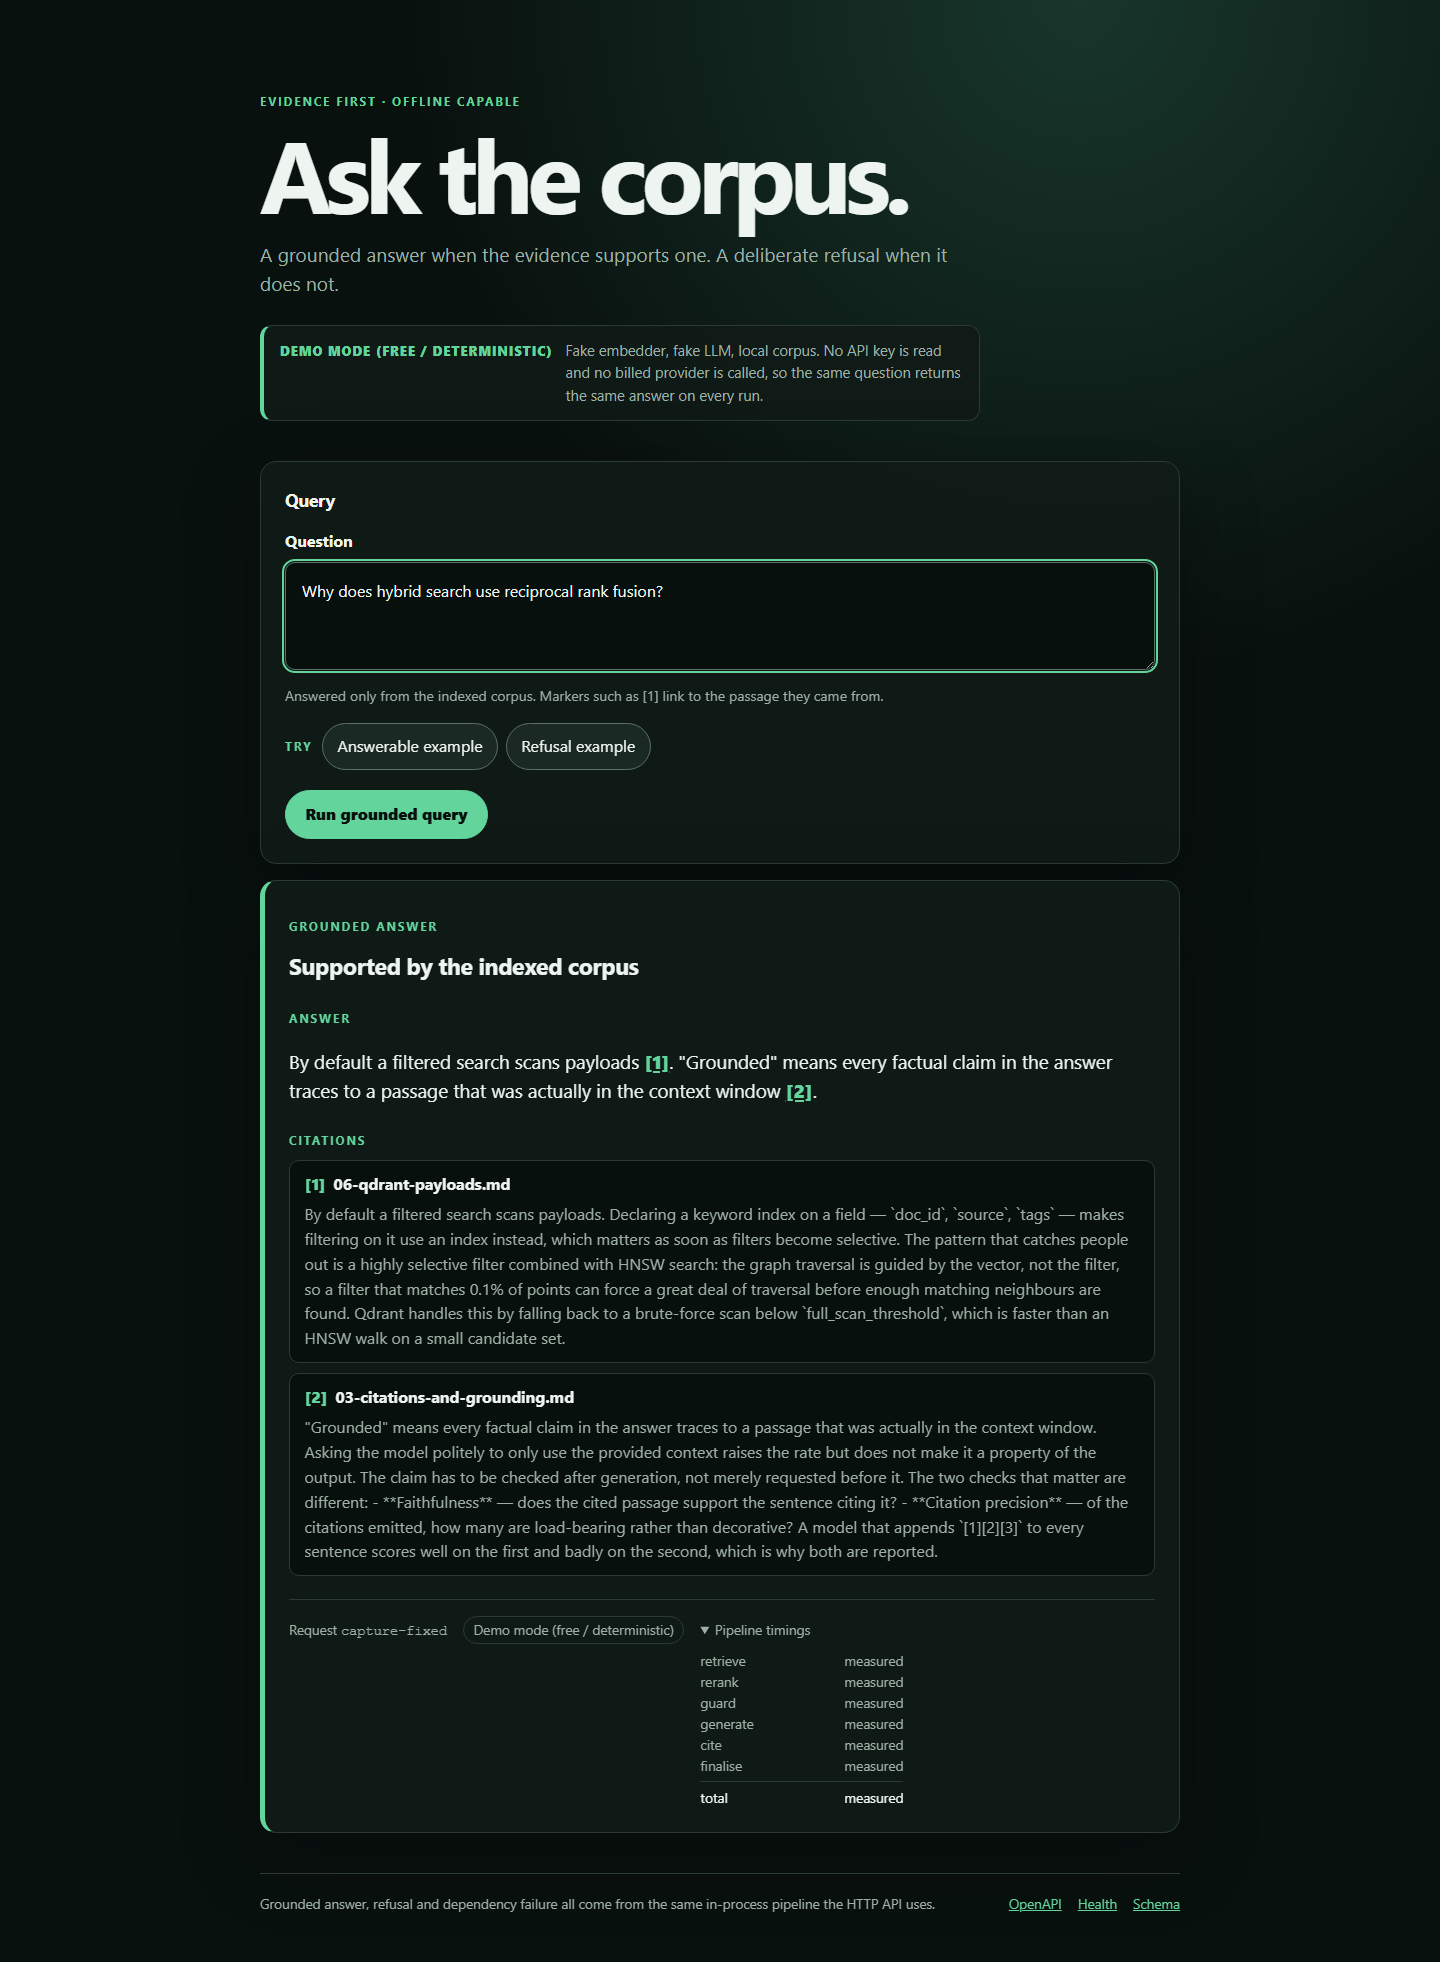
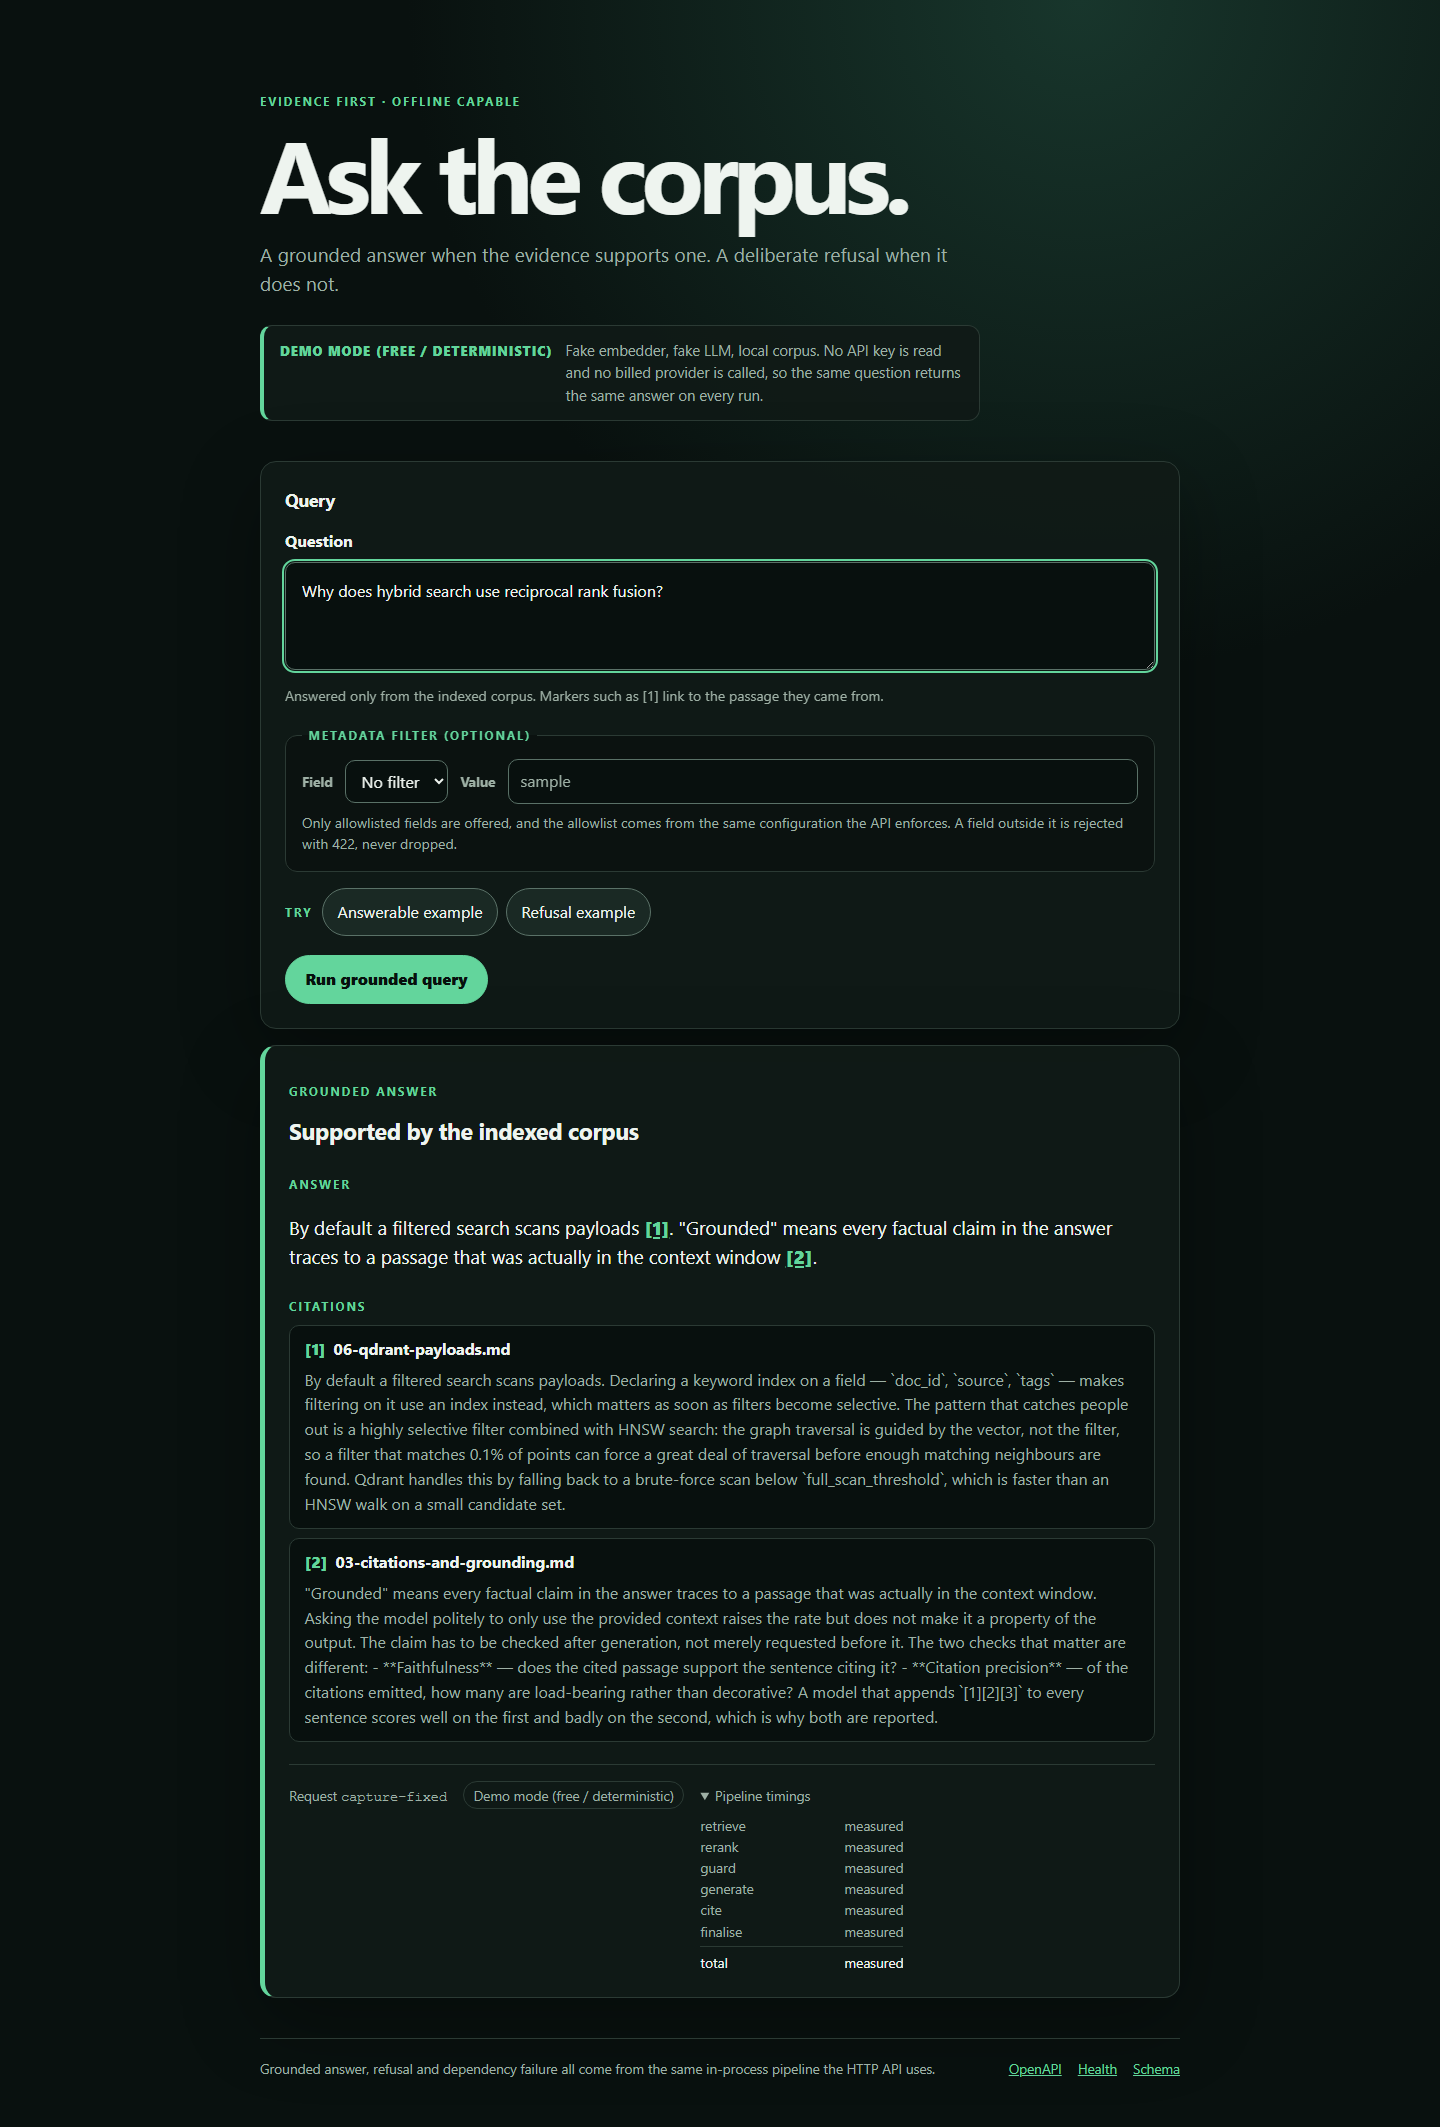
docs(portfolio): repin P1 to the filter-UI head and gate hosted claims on curled fixtures
Production RAG moved to main 1cd8e4b, which merges the allowlisted metadata
filter control onto the query UI. The card cited 62cc15f, so the site was one
merge behind the thing that makes the system interesting to a reviewer.

- Repin P1 to 1cd8e4b and add the demo walkthrough of the filter control.
- Refresh the vendored grounded capture: ui-grounded.png changed between
  129a46d and 1cd8e4b, so the pinned copy was stale (height 1962 -> 2127).
- Vendor ui-filtered.png at 1cd8e4b and render it under the flagship, because
  a filter that cannot offer what the API would reject is worth showing, not
  only asserting.
- Repin the P2, P4, and P5 capture source links to the main each card claims.
  The blobs are byte-identical at both commits; the older SHAs merely made a
  reader open a commit the card was not talking about.
- Add content/verified-urls.json: every hosted URL with the status a real
  request observed, plus an absent list recording that pax-production-rag and
  pax-multi-agent both return 404 today. P1 and P3 stay clone-and-run.
- Four new tests: a hosted claim needs a fixture that observed 200, the
  fixture cannot record a status it did not observe, every capture is pinned
  to a commit rather than a branch, and a system that claims a main must pin
  evidence to it.

GET /v1/platform/status is recorded as 401, which is what an anonymous request
receives. The authenticated 200 is described in prose, never asserted as the
anonymous status.

diff --git a/app/page.tsx b/app/page.tsx
@@ -257,6 +257,57 @@ export default function Home() {
               </figure>
             </div>
 
+            {flagship.secondaryCapture ? (
+              <div className="flagship-detail">
+                <div className="flagship-detail-copy">
+                  <p className="section-kicker">THE CONTROL THAT CANNOT OVER-PROMISE</p>
+                  <h3>A filter the API would refuse is a filter the UI never offers.</h3>
+                  <p>
+                    The metadata filter reads its field list from the running deployment&apos;s
+                    allowlist, so the control cannot propose a narrowing the API would reject. A
+                    field posted by hand anyway gets the same typed 422 the API answers with, and
+                    the result footer names the narrowing that produced the citations.
+                  </p>
+                  <div className="text-links">
+                    <ExternalLink href="https://github.com/pabloalvarez99/production-rag/blob/main/docs/adr/0011-metadata-filters.md">
+                      ADR 0011 — allowlist-only, fail closed
+                    </ExternalLink>
+                    <ExternalLink href="https://github.com/pabloalvarez99/production-rag/blob/1cd8e4b/docs/demo.md">
+                      Walk the filter in the demo script
+                    </ExternalLink>
+                  </div>
+                </div>
+
+                <figure className="product-frame">
+                  <div className="product-frame-bar">
+                    <div className="window-dots" aria-hidden="true">
+                      <i />
+                      <i />
+                      <i />
+                    </div>
+                    <span>production-rag / metadata filter</span>
+                    <span className="frame-secure">tags = hybrid</span>
+                  </div>
+                  <div className="product-screen">
+                    <Image
+                      alt={flagship.secondaryCapture.alt}
+                      height={flagship.secondaryCapture.height}
+                      loading="lazy"
+                      sizes="(max-width: 900px) 100vw, 50vw"
+                      src={flagship.secondaryCapture.src}
+                      width={flagship.secondaryCapture.width}
+                    />
+                  </div>
+                  <figcaption>
+                    {flagship.secondaryCapture.caption}{" "}
+                    <ExternalLink href={flagship.secondaryCapture.sourceUrl}>
+                      Source file
+                    </ExternalLink>
+                  </figcaption>
+                </figure>
+              </div>
+            ) : null}
+
             <div className="roadmap-heading">
               <div>
                 <p className="section-kicker">THE FIVE-SYSTEM LADDER</p>

diff --git a/app/globals.css b/app/globals.css
@@ -674,6 +674,31 @@ p {
   padding-top: 18px;
 }
 
+.flagship-detail {
+  align-items: center;
+  border-top: 1px solid var(--line);
+  display: grid;
+  gap: 72px;
+  grid-template-columns: minmax(0, 1fr) minmax(0, 1fr);
+  margin-top: 84px;
+  padding-top: 72px;
+}
+
+.flagship-detail-copy h3 {
+  font-size: clamp(1.45rem, 2.3vw, 2rem);
+  line-height: 1.16;
+  margin: 14px 0 18px;
+}
+
+.flagship-detail-copy > p {
+  color: var(--muted);
+  max-width: 52ch;
+}
+
+.flagship-detail-copy .text-links {
+  margin-top: 26px;
+}
+
 .project-title-row {
   align-items: start;
   border-bottom: 1px solid var(--line);
@@ -1629,11 +1654,19 @@ p {
     padding-top: 20px;
   }
 
-  .flagship-grid {
+  .flagship-grid,
+  .flagship-detail {
     grid-template-columns: 1fr;
   }
 
-  .flagship-copy {
+  .flagship-detail {
+    gap: 40px;
+    margin-top: 56px;
+    padding-top: 48px;
+  }
+
+  .flagship-copy,
+  .flagship-detail-copy {
     max-width: 760px;
   }
 

diff --git a/docs/content-provenance.md b/docs/content-provenance.md
@@ -8,7 +8,7 @@ site. Update this record whenever a public status changes.
 
 | Surface | Public evidence |
 |---|---|
-| Production RAG | Release `v0.1.0` at `678c554`; `main` `62cc15f` with green CI; metadata filters merged with ADR 0011; `docs/DEMO-DAY.md`, demo GIF, and social preview committed |
+| Production RAG | Release `v0.1.0` at `678c554`; `main` `1cd8e4b` with green CI; the allowlisted metadata filter control merged onto the query UI (ADR 0011, `docs/demo.md`); `docs/DEMO-DAY.md`, demo GIF, and social preview committed |
 | Agentic Research | Release `v0.1.0` at `18c1ff9`; `main` `8bde9c9` with green CI; API/CLI/UI, optional P1 HTTP, notes tool, 17-case eval contract, three committed UI captures |
 | Multi-Agent Orchestration | Release `v0.1.0` at `e2687ca`; `main` `78b3910` with green CI; done, budget, and trace captures committed |
 | RepoMind | Release `v0.1.0` at `327a949`; `main` `0f91b7c` with green CI; mini-hit, mini-refuse, and dogfood-hit captures committed |
@@ -37,7 +37,18 @@ here:
 | <https://pax-repomind.vercel.app> | `GET /health` returned `200`; `POST /v1/code/ask` answered `create_app` with `app/main.py` lines 6-9 | Indexes the committed `mini` and `production_rag` fixtures only; it cannot answer about an arbitrary repository |
 
 The proof strip counts three hosted demos, not five hosted systems, and P1 and P3 remain
-clone-and-run.
+clone-and-run. `pax-production-rag.vercel.app` and `pax-multi-agent.vercel.app` were both requested
+on 2026-08-14 and both returned `404`; they are recorded in the `absent` list of
+`content/verified-urls.json` so that a future refresh has to observe a `200` before either system
+can be published as hosted.
+
+`content/verified-urls.json` is the machine-checkable half of this document: every hosted URL the
+site publishes must appear there with the status a real request observed, and `npm test` fails if
+`portfolio.json` claims a host the fixture never reached. The file records `401` for
+`GET /v1/platform/status` because that is what an anonymous request receives — the authenticated
+`200` is described in prose here and on the card, never asserted as the anonymous status.
+
+`production-rag.vercel.app` belongs to an unrelated product and is never cited by this site.
 
 AI Platform is the only system whose free path does not exercise the others. Its gateway starts with
 every upstream URL empty, so P1–P4 report `unconfigured` rather than running for the visitor, and its
@@ -50,11 +61,22 @@ source file on GitHub.
 
 | Site file | Source of record |
 |---|---|
-| `production-rag-grounded.png` | `production-rag/docs/assets/ui-grounded.png` at `129a46d` |
-| `agentic-research-run.png` | `agentic-rag-research/docs/assets/ui-done.png` at `57ce423` |
+| `production-rag-grounded.png` | `production-rag/docs/assets/ui-grounded.png` at `1cd8e4b` |
+| `production-rag-filtered.png` | `production-rag/docs/assets/ui-filtered.png` at `1cd8e4b` |
+| `agentic-research-run.png` | `agentic-rag-research/docs/assets/ui-done.png` at `8bde9c9` |
 | `multi-agent-trace.png` | `multi-agent-orchestration/docs/assets/ui-trace.png` at `78b3910` |
-| `repomind-dogfood-hit.png` | `repomind/docs/assets/ui-dogfood-hit.png` at `a9b0acb` |
-| `ai-platform-status.png` | `ai-platform/docs/assets/ui-status-unconfigured.png` at `4318531` |
+| `repomind-dogfood-hit.png` | `repomind/docs/assets/ui-dogfood-hit.png` at `0f91b7c` |
+| `ai-platform-status.png` | `ai-platform/docs/assets/ui-status-unconfigured.png` at `eba1e22` |
+
+Every vendored file was re-fetched from `raw.githubusercontent.com` at the SHA in this table and
+its Git blob hash compared against `gh api .../contents/...?ref=<sha>`; the two matched for every
+row, so the site serves the same bytes the source repository stores. Each capture SHA is now the
+`main` the same row claims, so a reader who opens the source link sees the head the card cites
+rather than an older commit that merely happened to hold the file.
+
+`production-rag/docs/assets/ui-grounded.png` changed between `129a46d` and `1cd8e4b`; the vendored
+copy was refreshed rather than left pinned to the older blob, and its height moved from 1962 to
+2127.
 
 Each source repository documents the repeatable capture command and its fake-provider boundary.
 
